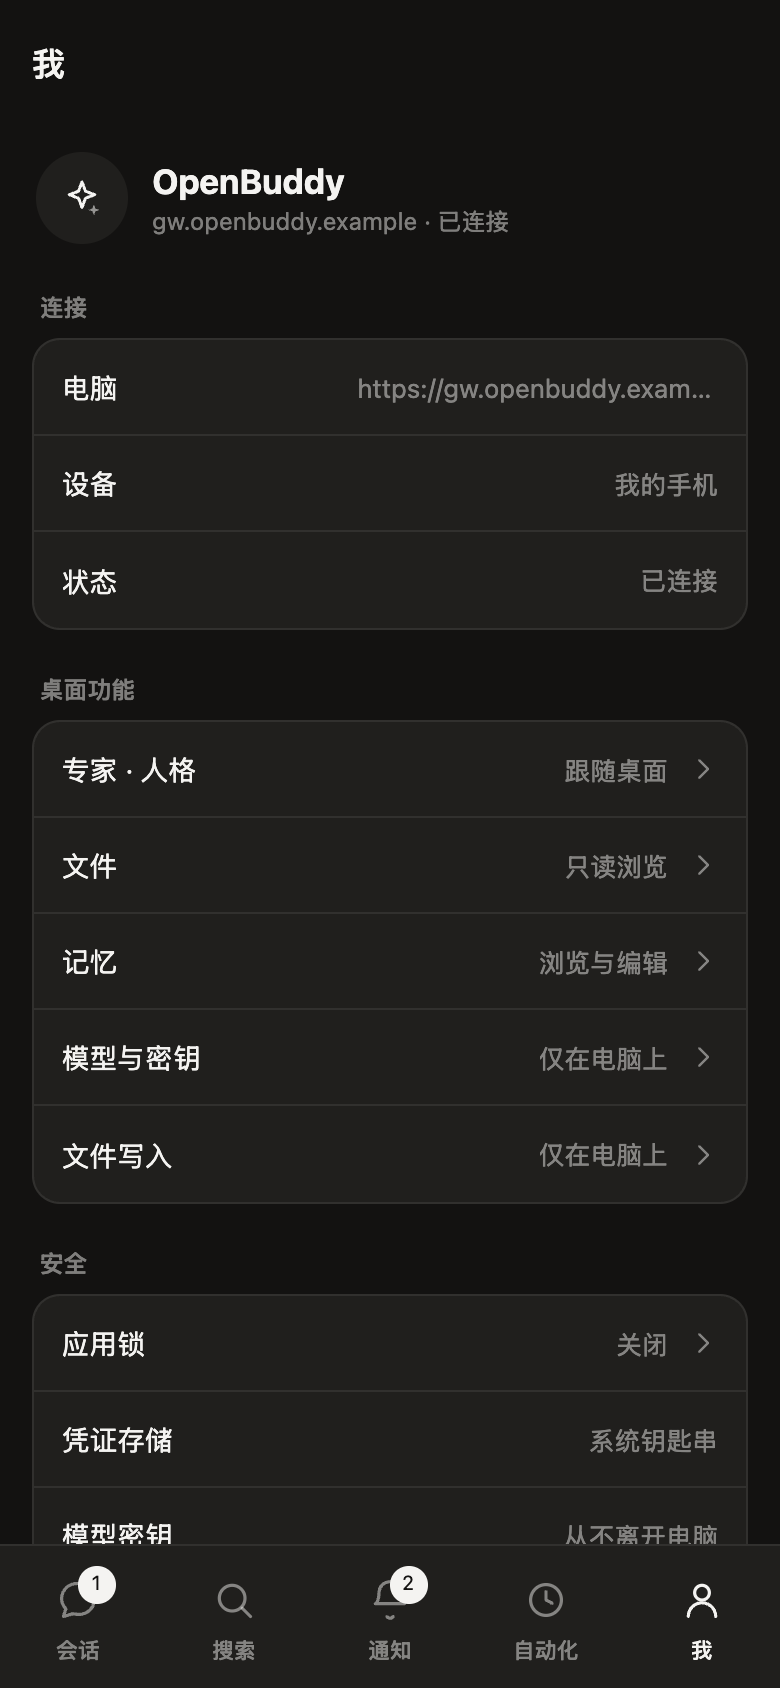
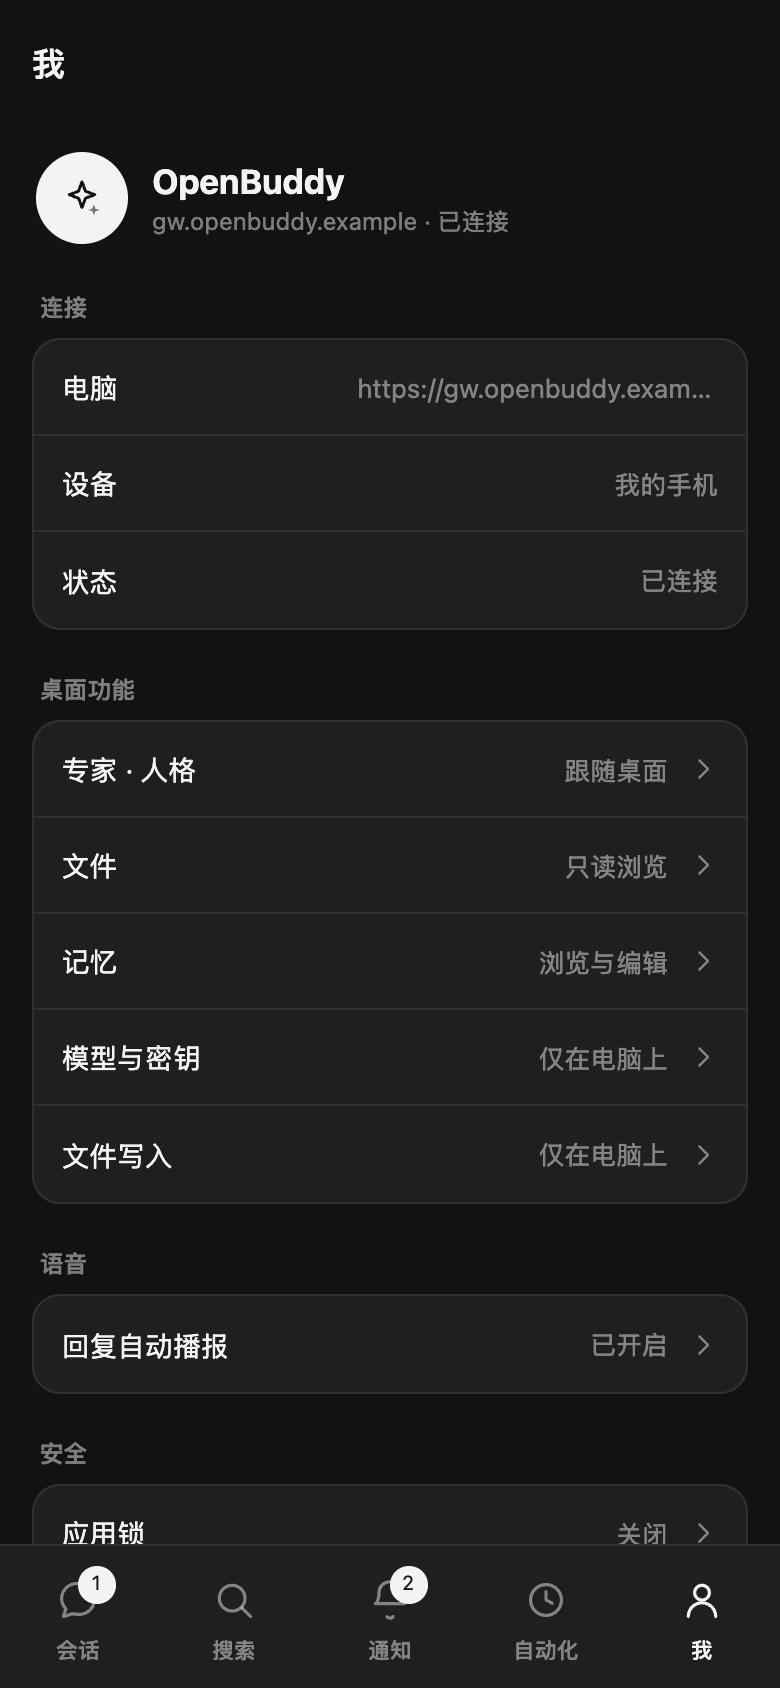
feat(mobile): 语音播报（自动朗读 + 长按朗读）
- speech: Me → 语音 → 回复自动播报（持久化）；仅当前会话 settle 时朗读，其他会话仍走未读徽标
- actions: 长按助手消息新增「朗读」，流式中不出现；Markdown 压平后再交给 TTS（代码块读作「代码略」）
- core/speech.ts: 设置读写、Markdown 清洗、会话范围判定，7 单测；App E2E 56/56
- verify: 真链路浏览器拦截 speechSynthesis，自动播报与长按朗读各触发一次
- docs: 计划 3.30，Phase 3 30/30，新增长按动作表截图

diff --git a/apps/mobile/src/stores/app.ts b/apps/mobile/src/stores/app.ts
@@ -36,6 +36,10 @@ import {
   type LockAvailability,
 } from '../core/app-lock'
 import { getItem, setItem } from '../transport/storage'
+import {
+  parseSpeakSetting, serializeSpeakSetting, shouldSpeak, SPEAK_KEY,
+} from '../core/speech'
+import { speak } from '../native/speech'
 import type { Approval, NotificationItem } from '../core/models'
 import type { PairPayload } from '../core/pairing'
 import {
@@ -70,6 +74,8 @@ type AppState = {
   appLock: boolean
   locked: boolean
   backgroundedAt: number | null
+  /** Read assistant replies of the open conversation out loud. */
+  autoSpeak: boolean
 
   bootstrap: () => Promise<void>
   pair: (payload: PairPayload, deviceName: string) => Promise<void>
@@ -98,6 +104,7 @@ type AppState = {
   unlockApp: () => Promise<boolean>
   noteBackground: () => void
   relockIfNeeded: () => void
+  setAutoSpeak: (enabled: boolean) => Promise<void>
 }
 
 const ASSISTANT_EVENT = 'agent://event'
@@ -122,6 +129,7 @@ export const useApp = create<AppState>((set, get) => ({
   appLock: false,
   locked: false,
   backgroundedAt: null,
+  autoSpeak: false,
 
   /** Cached paint first, then the connection catches up. */
   async bootstrap() {
@@ -130,6 +138,7 @@ export const useApp = create<AppState>((set, get) => ({
 
     const pairing = await loadPairing().catch(() => null)
     const appLock = parseLockSetting(await getItem(LOCK_KEY).catch(() => null))
+    const autoSpeak = parseSpeakSetting(await getItem(SPEAK_KEY).catch(() => null))
     // The lock-screen shot is a separate review build so the other screens are
     // not blocked behind a gate no simulator can pass.
     const previewLock = isPreview() && process.env.EXPO_PUBLIC_UI_PREVIEW_LOCK === '1'
@@ -150,11 +159,12 @@ export const useApp = create<AppState>((set, get) => ({
         awaiting: demo.awaiting,
         appLock: appLock || previewLock,
         locked: appLock || previewLock,
+        autoSpeak,
       })
       return
     }
 
-    set({ pairing, booted: true, appLock, locked: appLock })
+    set({ pairing, booted: true, appLock, locked: appLock, autoSpeak })
     if (!pairing) return
 
     const transport = await openTransport(pairing, {
@@ -540,6 +550,11 @@ export const useApp = create<AppState>((set, get) => ({
     }
   },
 
+  async setAutoSpeak(enabled) {
+    await setItem(SPEAK_KEY, serializeSpeakSetting(enabled)).catch(() => {})
+    set({ autoSpeak: enabled })
+  },
+
   dismissError() {
     set({ error: null })
   },
@@ -599,6 +614,12 @@ function ingestUpdate(
       }
     })
     if (markUnread) void cacheSessions(get().sessions).catch(() => {})
+    // Read-aloud follows the screen, not the notification stream: a reply in
+    // another conversation becomes an unread mark instead of audio.
+    if (shouldSpeak(get().autoSpeak, key, get().activeSessionId)) {
+      const text = get().transcripts[key]?.lastAssistantText
+      if (text) speak(text)
+    }
   }
   const current = get().transcripts[key] ?? emptyTranscript()
   const next = applyUpdate(current, update, key)

diff --git a/apps/mobile/src/core/speech.ts b/apps/mobile/src/core/speech.ts
@@ -1,0 +1,52 @@
+/**
+ * Reply read-aloud (20261115-mobile.md §1.4 gap list: 语音播报).
+ *
+ * Doubao reads replies out loud; the desktop does not. On the phone this is a
+ * phone-side job like dictation: the text is already in the transcript, and
+ * speaking it needs no model. The rules live here so the setting and the
+ * Markdown-to-speech cleanup are testable without an audio engine.
+ */
+
+export const SPEAK_KEY = 'openbuddy.autoSpeak'
+
+/** Long answers are cut: nobody wants a five-minute monologue after a glance. */
+export const SPEAK_MAX_CHARS = 600
+
+export function parseSpeakSetting(raw: string | null | undefined): boolean {
+  return raw === '1'
+}
+
+export function serializeSpeakSetting(enabled: boolean): string {
+  return enabled ? '1' : '0'
+}
+
+/**
+ * Markdown flattened into something worth hearing.
+ *
+ * Code blocks become a short spoken placeholder — reading punctuation out
+ * loud is worse than saying there is code — and links keep their label. The
+ * result is single-spaced and capped so TTS cannot run away.
+ */
+export function speakableText(markdown: string, max = SPEAK_MAX_CHARS): string {
+  const text = markdown
+    .replace(/```[\s\S]*?```/g, '（代码略）')
+    .replace(/`([^`]+)`/g, '$1')
+    .replace(/!\[[^\]]*\]\([^)]*\)/g, '')
+    .replace(/\[([^\]]+)\]\([^)]*\)/g, '$1')
+    .replace(/^#{1,6}\s+/gm, '')
+    .replace(/^\s*[-*+]\s+/gm, '')
+    .replace(/^\s*\d+\.\s+/gm, '')
+    .replace(/[*_~>#]/g, '')
+    .replace(/\s+/g, ' ')
+    .trim()
+  return text.length > max ? `${text.slice(0, max)}…` : text
+}
+
+/** Only the conversation on screen is read; everything else becomes unread. */
+export function shouldSpeak(
+  enabled: boolean,
+  sessionId: string | undefined,
+  activeSessionId: string | null,
+): boolean {
+  return enabled && Boolean(sessionId) && sessionId === activeSessionId
+}

diff --git a/apps/mobile/src/core/__tests__/speech.test.ts b/apps/mobile/src/core/__tests__/speech.test.ts
@@ -1,0 +1,50 @@
+import { describe, expect, it } from 'vitest'
+
+import {
+  parseSpeakSetting, serializeSpeakSetting, shouldSpeak, speakableText, SPEAK_MAX_CHARS,
+} from '../speech'
+
+describe('speak setting', () => {
+  it('reads and writes the stored flag', () => {
+    expect(parseSpeakSetting('1')).toBe(true)
+    expect(parseSpeakSetting('0')).toBe(false)
+    expect(parseSpeakSetting(null)).toBe(false)
+    expect(serializeSpeakSetting(true)).toBe('1')
+    expect(serializeSpeakSetting(false)).toBe('0')
+  })
+})
+
+describe('speakableText', () => {
+  it('keeps prose and strip markdown marks', () => {
+    expect(speakableText('# 结论\n\n**没有缓冲**，`accept-encoding` 是 identity。'))
+      .toBe('结论 没有缓冲，accept-encoding 是 identity。')
+  })
+
+  it('replaces code blocks instead of reading them', () => {
+    const text = speakableText('看这段：\n\n```ts\nheaders.x = 1\n```\n\n就这样。')
+    expect(text).toBe('看这段： （代码略） 就这样。')
+  })
+
+  it('keeps the label of a link and drops images', () => {
+    expect(speakableText('见 [文档](https://x.test) 和 ![图](a.png)')).toBe('见 文档 和')
+  })
+
+  it('collapses list markers and whitespace', () => {
+    expect(speakableText('- 一\n- 二\n\n1. 三')).toBe('一 二 三')
+  })
+
+  it('caps a long answer', () => {
+    const out = speakableText('好'.repeat(1000))
+    expect(out.length).toBe(SPEAK_MAX_CHARS + 1)
+    expect(out.endsWith('…')).toBe(true)
+  })
+})
+
+describe('shouldSpeak', () => {
+  it('speaks only the conversation on screen', () => {
+    expect(shouldSpeak(true, 's1', 's1')).toBe(true)
+    expect(shouldSpeak(true, 's1', 's2')).toBe(false)
+    expect(shouldSpeak(true, 's1', null)).toBe(false)
+    expect(shouldSpeak(false, 's1', 's1')).toBe(false)
+  })
+})

diff --git a/scripts/e2e-mobile-app.ts b/scripts/e2e-mobile-app.ts
@@ -37,6 +37,7 @@ import { checkNewSession } from '../apps/mobile/src/core/new-session.js'
 import { cleanSessionTitle, sessionActions } from '../apps/mobile/src/core/session-actions.js'
 import { bumpUnread, shouldMarkUnread, totalUnread } from '../apps/mobile/src/core/unread.js'
 import { parseLockSetting, shouldRelock } from '../apps/mobile/src/core/app-lock.js'
+import { parseSpeakSetting, serializeSpeakSetting, shouldSpeak, speakableText } from '../apps/mobile/src/core/speech.js'
 
 let failures = 0
 function check(name: string, condition: boolean, detail = ''): void {
@@ -418,6 +419,12 @@ check('the tab badge sums the rows', totalUnread(unreadRows) === 2)
 check('a quick app switch does not demand the lock', !shouldRelock(true, Date.now() - 5_000, Date.now()))
 check('a long absence relocks the app', shouldRelock(true, Date.now() - 10 * 60_000, Date.now()))
 check('the stored lock flag is read strictly', parseLockSetting('1') && !parseLockSetting('0') && !parseLockSetting(null))
+
+// ── 8h. Read-aloud: Markdown flattening, scope, stored flag ────────────────
+
+check('code blocks become a spoken placeholder', speakableText('看：\n```ts\nx=1\n```\n完。') === '看： （代码略） 完。')
+check('only the open conversation is read aloud', shouldSpeak(true, 'sess-1', 'sess-1') && !shouldSpeak(true, 'sess-1', 'sess-2'))
+check('the speak setting round-trips', parseSpeakSetting(serializeSpeakSetting(true)) && !parseSpeakSetting(serializeSpeakSetting(false)))
 
 // ── 9. Offline outbox: FIFO, stops on failure, resumes in order ────────────
 

diff --git a/apps/mobile/src/components/MessageActions.tsx b/apps/mobile/src/components/MessageActions.tsx
@@ -13,7 +13,7 @@ import * as Clipboard from 'expo-clipboard'
 
 import { themeFor } from '../theme'
 
-export type MessageAction = 'copy' | 'copy_markdown' | 'regenerate'
+export type MessageAction = 'copy' | 'copy_markdown' | 'speak' | 'regenerate'
 
 export type MessageActionsProps = {
   /** Plain text of the message. */
@@ -23,10 +23,12 @@ export type MessageActionsProps = {
   /** Whether a "regenerate" action makes sense (assistant turns only). */
   canRegenerate?: boolean
   onRegenerate?: () => void
+  /** Assistant messages can be read out loud (语音播报). */
+  onSpeak?: () => void
   children: React.ReactNode
 }
 
-export function MessageActions({ text, markdown, canRegenerate, onRegenerate, children }: MessageActionsProps) {
+export function MessageActions({ text, markdown, canRegenerate, onRegenerate, onSpeak, children }: MessageActionsProps) {
   const theme = themeFor(useColorScheme())
   const [open, setOpen] = useState(false)
   const [note, setNote] = useState<string | null>(null)
@@ -48,6 +50,9 @@ export function MessageActions({ text, markdown, canRegenerate, onRegenerate, ch
   ]
   if (markdown && markdown !== text) {
     items.push({ key: 'copy_markdown', label: '复制 Markdown', run: () => void copy(markdown, '已复制 Markdown') })
+  }
+  if (onSpeak) {
+    items.push({ key: 'speak', label: '朗读', run: () => { setOpen(false); onSpeak() } })
   }
   if (canRegenerate && onRegenerate) {
     items.push({ key: 'regenerate', label: '重新生成', run: () => { setOpen(false); onRegenerate() } })

diff --git a/apps/mobile/app/(tabs)/me.tsx b/apps/mobile/app/(tabs)/me.tsx
@@ -82,6 +82,8 @@ export default function MeScreen() {
   const capabilities = useApp(state => state.capabilities)
   const appLock = useApp(state => state.appLock)
   const setAppLock = useApp(state => state.setAppLock)
+  const autoSpeak = useApp(state => state.autoSpeak)
+  const setAutoSpeak = useApp(state => state.setAutoSpeak)
   const unpair = useApp(state => state.unpair)
 
   const toggleLock = async () => {
@@ -167,6 +169,16 @@ export default function MeScreen() {
         />
         <Row theme={theme} label="模型与密钥" value="仅在电脑上" onPress={() => explain('providers_save_provider')} />
         <Row theme={theme} label="文件写入" value="仅在电脑上" onPress={() => explain('write_text_file')} last />
+      </Section>
+
+      <Section theme={theme} label="语音">
+        <Row
+          theme={theme}
+          label="回复自动播报"
+          value={autoSpeak ? '已开启' : '关闭'}
+          onPress={() => void setAutoSpeak(!autoSpeak)}
+          last
+        />
       </Section>
 
       <Section theme={theme} label="安全">

diff --git a/apps/mobile/src/native/speech.ts b/apps/mobile/src/native/speech.ts
@@ -1,0 +1,33 @@
+/**
+ * The audio side of read-aloud (20261115-mobile.md §1.4).
+ *
+ * `expo-speech` maps to the platform TTS engine (and to `speechSynthesis` on
+ * web), so both the auto-read setting and the per-message action share this
+ * one call. A missing voice engine is not fatal: silently doing nothing is
+ * better than an error banner over a conversation.
+ */
+
+import * as Speech from 'expo-speech'
+
+import { speakableText } from '../core/speech'
+
+export function speak(text: string): void {
+  const clean = speakableText(text)
+  if (!clean) return
+  try {
+    // One voice at a time: reading a new reply should not queue behind an old
+    // one the user has already moved past.
+    void Speech.stop()
+    Speech.speak(clean, { language: 'zh-CN' })
+  } catch {
+    // No engine, no audio: the transcript is still the answer.
+  }
+}
+
+export function stopSpeaking(): void {
+  try {
+    void Speech.stop()
+  } catch {
+    // Nothing to stop.
+  }
+}

diff --git a/apps/mobile/src/components/MessageRow.tsx b/apps/mobile/src/components/MessageRow.tsx
@@ -17,6 +17,7 @@ import { Text, View, useColorScheme } from 'react-native'
 
 import type { TextRow, ThinkingRow as ThinkingRowData, ToolRow } from '../core/transcript'
 import { themeFor } from '../theme'
+import { speak } from '../native/speech'
 import { SparkIcon } from './icons'
 import { Caret } from './Caret'
 import { Markdown } from './Markdown'
@@ -82,6 +83,7 @@ function AssistantRow({ row, onRegenerate }: { row: TextRow; onRegenerate?: () =
         markdown={row.text}
         canRegenerate={!row.streaming}
         onRegenerate={onRegenerate}
+        onSpeak={row.streaming ? undefined : () => speak(row.text)}
       >
         {row.isError ? (
           <Text selectable style={{ color: theme.danger, fontSize: theme.fontBody, lineHeight: theme.lineBody }}>

diff --git a/docs/plan/20261115-mobile.md b/docs/plan/20261115-mobile.md
@@ -28,7 +28,7 @@
 |---|---|---|
 | **Phase 1 网关集成** | **100%**（6/6） | 含 Docker 镜像与自托管部署文档；**已真实发布到 145 机器**（`https://ai.loulou.world:8787/openbuddy`） |
 | **Phase 2 Pi Bridge** | **100%**（10/10） | 桌面主进程接线完成 + 跨运行时 E2E + **桌面「手机接入」设置页（配对码/设备列表/吊销）** |
-| **Phase 3 Expo App** | **100%**（29/29） | 含推送客户端 + 网关 expo provider + UI 与桌面统一（§4.3）+ 聊天渲染升级（3.13）+ 桌面细节对齐（3.14/3.15）+ 会话设置面板（3.16）、只读资料浏览（3.17）、相机多图（3.18）、定时任务（3.19）、真语音输入（3.20）、记忆浏览与编辑（3.21）、分支与检查点（3.22）、推送闭环（3.23）、手机新建任务（3.24）、会话管理菜单（3.25）、未读徽标（3.26）、网关基路径部署支持（3.27）、应用锁（3.28）、**AI 对话真链路验证（3.29）** |
+| **Phase 3 Expo App** | **100%**（30/30） | 含推送客户端 + 网关 expo provider + UI 与桌面统一（§4.3）+ 聊天渲染升级（3.13）+ 桌面细节对齐（3.14/3.15）+ 会话设置面板（3.16）、只读资料浏览（3.17）、相机多图（3.18）、定时任务（3.19）、真语音输入（3.20）、记忆浏览与编辑（3.21）、分支与检查点（3.22）、推送闭环（3.23）、手机新建任务（3.24）、会话管理菜单（3.25）、未读徽标（3.26）、网关基路径部署支持（3.27）、应用锁（3.28）、AI 对话真链路验证（3.29）、**语音播报（3.30）** |
 | **核心（Phase 1–3）** | **100%** | 手机端主链路已全部实现并验证（含桌面侧接线与容器化部署） |
 | **Phase 3.5 H5 兜底** | **100%**（3/3） | 网关托管构建产物；`ipc.ts` 运行时分流 + 浏览器配对门；窄屏上下屏切换与顶栏/输入区收敛；H5 E2E 11/11 |
 | **Phase 4 弱网体验** | **100%**（4.1–4.6） | 心跳、测活、401 重配对、回前台重连、隧道背压快速失败；4.7 并发容量见 §8 限制 |
@@ -39,14 +39,15 @@
 ### 当前状态（真实执行，详见附录 B）
 
 - ✅ 网关 `bun test` **362/362**（含 3 个背压测试）；PiBridge `bun test` **30/30**
-- ✅ 手机端 vitest **134/134**（含记忆 9、分支 9、新建任务 6、会话管理 10、未读 9、应用锁 8）、client **42/42**；全仓 1560/1562（2 项失败来自并行未提交的 ChatView 体积门禁与 watcher 时序抖动；watcher 单独重跑 6/6 通过）
-- ✅ 全链路 E2E：`e2e-mobile.ts` **13/13**、`e2e-mobile-app.ts` **53/53**、`e2e-mobile-automations.ts` **8/8**、`e2e-mobile-weaknet.ts` **6/6**、`e2e-mobile-h5.ts` **11/11**、`e2e-mobile-push.ts` **8/8**、桌面桥 **13/13**
+- ✅ 手机端 vitest **141/141**（含记忆 9、分支 9、新建任务 6、会话管理 10、未读 9、应用锁 8、语音播报 7）、client **42/42**；全仓 1560/1562（2 项失败来自并行未提交的 ChatView 体积门禁与 watcher 时序抖动；watcher 单独重跑 6/6 通过）
+- ✅ 全链路 E2E：`e2e-mobile.ts` **13/13**、`e2e-mobile-app.ts` **56/56**、`e2e-mobile-automations.ts` **8/8**、`e2e-mobile-weaknet.ts` **6/6**、`e2e-mobile-h5.ts` **11/11**、`e2e-mobile-push.ts` **8/8**、桌面桥 **13/13**
 - ✅ `apps/mobile` iOS/Android `expo export` 成功；`tsc` 通过；`apps/web` **829/829**；边界门禁 `BOUNDARIES_OK`
-- ✅ UI 与桌面视觉统一（§4.3），**34 项**问题逐条修复，**33 张**原生截图（16 屏 × 浅/深 + 真链路流式中，含记忆、分支、应用锁屏）+ 3 张 H5 截图入库 `docs/plan/assets/`
+- ✅ UI 与桌面视觉统一（§4.3），**34 项**问题逐条修复，**34 张**原生截图（16 屏 × 浅/深 + 真链路流式中 + 长按动作表，含记忆、分支、应用锁屏）+ 3 张 H5 截图入库 `docs/plan/assets/`
 - ✅ `audit:ipc` 通过；CI workflow `.github/workflows/mobile.yml` 已加入
 - ✅ 手机端基准（本机，单次）：命令 p50 **0.33ms** / p95 **0.79ms**；事件 **≈272k/s**（数值随机器/JIT 波动）
-- ✅ **本轮（2026-11-17）重跑**：gateway **363/363**、PiBridge **30/30**、手机端 **134/134**、全仓 vitest **1560/1562**（2 项失败来自并行未提交改动）、7 个 E2E（13/13、53/53、8/8、6/6、11/11、推送 8/8、桌面桥 13/13）全 PASS、手机端 `tsc` 与 iOS `expo export` 通过；边界 `size` 门禁的 2 项增长来自并行未提交的 `ChatView.tsx`，手机端包无新增越界
+- ✅ **本轮（2026-11-17）重跑**：gateway **363/363**、PiBridge **30/30**、手机端 **141/141**、全仓 vitest **1560/1562**（2 项失败来自并行未提交改动）、7 个 E2E（13/13、56/56、8/8、6/6、11/11、推送 8/8、桌面桥 13/13）全 PASS、手机端 `tsc` 与 iOS `expo export` 通过；边界 `size` 门禁的 2 项增长来自并行未提交的 `ChatView.tsx`，手机端包无新增越界
 - ✅ **AI 对话 UI 真链路验证**：真实网关 + 隧道 + PiBridge 下在浏览器里发送消息，DOM 断言用户气泡 / 思考块 / 工具卡 / 完整流式回复全部命中；流式窗口内截图确认 `收到：` 分帧增长、等待行已消失、停止按钮可用
+- ✅ **语音播报真链路验证**：同一真链路里拦截 `speechSynthesis.speak`，开启自动播报后 settle 时读到完整回复；长按助手消息 → 「朗读」再次触发，证明 TTS 接线与动作表都真实可用
 - ✅ **网关已发布 145 机器**：`https://ai.loulou.world:8787/openbuddy`（systemd `openbuddy-gateway`，127.0.0.1:18788；Caddy `handle_path /openbuddy/*` 与 lumos 网关共用 8787 TLS 入口）；`/health` 公网可达；**远端桌面桥 E2E 13/13 PASS**（Node 桌面桥 → 公网 TLS/WS → Caddy 去前缀 → 145 网关）
 - ✅ **H5 兜底（Phase 3.5）**：网关 `/h5` 托管同一份产物；浏览器用 8 位码配对；`host_capabilities` 由桥改为 mobile 面；窄屏上下屏切换；H5 E2E **11/11** + 3 张浏览器截图
 - ⬜ 真机（相机扫码 / 推送送达 / 语音识别需 EAS dev build）、真机掉帧采集、Phase 6 研究
@@ -346,6 +347,7 @@ H5：apps/web（仅网关 /h5 托管，不参与原生构建）
 | 会话列表 | ![会话](assets/mobile-sessions.png) | ![会话·深色](assets/mobile-sessions-dark.png) |
 | 聊天（Markdown + 思考块 + 工具卡 + 内联审批 + 流式光标） | ![聊天](assets/mobile-chat.png) · [顶部](assets/mobile-chat-top.png) | ![深色](assets/mobile-chat-dark.png) · [顶部](assets/mobile-chat-top-dark.png) |
 | **真链路对话（真实网关 + 隧道 + PiBridge）** | ![真链路](assets/mobile-chat-live.png) · [流式中](assets/mobile-chat-live-streaming.png) | ![真链路·深色](assets/mobile-chat-live-dark.png) |
+| 消息长按动作（复制 / 朗读 / 重新生成） | ![动作表](assets/mobile-chat-actions.png) | — |
 | 等待中（loading 行 + 扫光） | ![等待](assets/mobile-pending.png) | ![等待·深色](assets/mobile-pending-dark.png) |
 | 通知中心 | ![通知](assets/mobile-notifications.png) | ![通知·深色](assets/mobile-notifications-dark.png) |
 | 我 / 设置（含应用锁入口） | ![我](assets/mobile-me.png) | ![我·深色](assets/mobile-me-dark.png) |
@@ -616,6 +618,7 @@ export const transport = new GatewayTransport({
 | 3.27 | **网关基路径部署支持**（发布 145 的前置） | ✅ | `normalizeGatewayUrl` 保留基路径（QR 里的 `<gateway>/pair` 回读时剥掉 `/pair`）；`agentRelayUrl` 把 `/relay/agent` 挂到基路径下；手机端 8 项配对测试 + 网关 agent 测试；使 `https://host/openbuddy` 这类反向代理挂载可用 |
 | 3.28 | **应用锁**（面容 / 指纹，§4.2 P1「安全锁」） | ✅ | `expo-local-authentication`：Me → 安全 → 应用锁；开启前校验硬件/录入，关闭前先扫一次（防绕过）；回前台超过 20s 宽限才重新上锁，快速切换不打扰；锁屏覆盖层自动弹一次系统验证，失败可重试；`core/app-lock.ts` 8 单测；App E2E 新增 3 项；新增锁屏浅/深截图 |
 | 3.29 | **AI 对话真链路验证**（浏览器里的真实网关 + 隧道 + PiBridge） | ✅ | `preview-mobile-web.ts` 的演示桌面扩展为一轮完整回合（thinking → toolcall → 分 4 帧的文字 delta → settle）；Playwright 用真实 device token 登录、真实发送、在流式窗口内与结束后分别截图；顺带修复两处 UI 问题：流式开始后等待行不消失（同时出现两个 OpenBuddy）→ 首个 delta 后隐藏；等待行/助手头像统一 `ink/inkFg`；截图见 `mobile-chat-live*.png` |
+| 3.30 | **语音播报**（自动朗读 + 长按「朗读」，§1.4 差距项） | ✅ | `expo-speech`：Me → 语音 → 回复自动播报（持久化）；只在**当前会话**的 settle 朗读，其他会话仍是未读徽标；长按任意助手消息新增「朗读」，流式中不出现；`core/speech.ts` 把 Markdown 压平（代码块→「（代码略）」、链接留标签、600 字截断）；7 单测；App E2E 新增 3 项；浏览器真链路用 `speechSynthesis` 拦截验证自动播报与长按朗读各触发一次 |
 
 ### Phase 3.5 — H5 兜底
 
